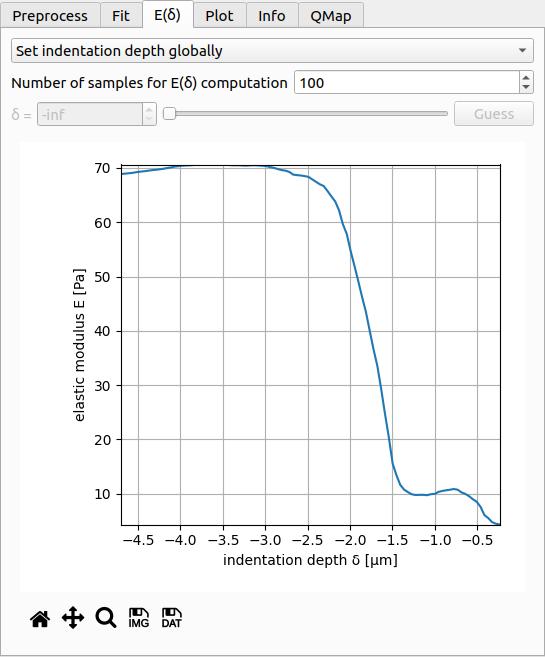
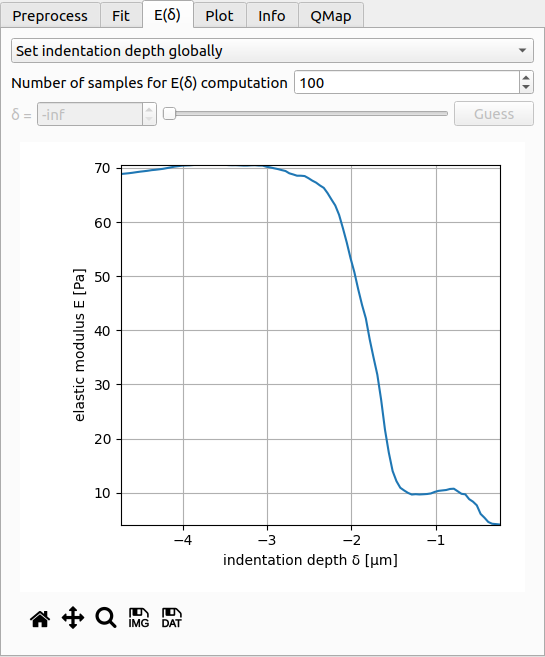
docs: update with latest screenshots

diff --git a/docs/scrots/make_scrots_ui_fd.py b/docs/scrots/make_scrots_ui_fd.py
@@ -54,24 +54,32 @@ war.tabs.setCurrentIndex(0)
 QApplication.processEvents()
 war.tabs.grab().save("_ui_fd_tab_preproc.png")
 
+# fit
 war.tabs.setCurrentIndex(1)
 QApplication.processEvents()
 war.tabs.grab().save("_ui_fd_tab_fit.png")
 
+# edelta
 war.tabs.setCurrentIndex(2)
 QApplication.processEvents()
 war.tabs.grab().save("_ui_fd_tab_edelta.png")
 
+# info
 war.tabs.setCurrentIndex(4)
 QApplication.processEvents()
 war.tabs.grab().save("_ui_fd_tab_info.png")
 
+# qmap
+# Select all curves (so QMap is fully visible)
+war.sp_rating_thresh.setValue(0.0)
+war.btn_rating_filter.clicked.emit()
 war.tabs.setCurrentIndex(5)
 war.sp_rating_thresh.setValue(0)
 war.btn_rating_filter.clicked.emit()
 QApplication.processEvents()
 war.tabs.grab().save("_ui_fd_tab_qmap.png")
 
+# plot
 war.tabs.setCurrentIndex(3)
 QApplication.processEvents()
 war.tabs.setFixedSize(war.tabs.sizeHint().width(), 300)

diff --git a/setup.py b/setup.py
@@ -24,8 +24,8 @@ setup(
     license="GPL v3",
     description=description,
     long_description=open('README.rst').read() if exists('README.rst') else '',
-    install_requires=["afmformats>=0.16.0",
-                      "nanite>=3.0.0",
+    install_requires=["afmformats>=0.16.4",
+                      "nanite>=3.1.1",
                       "matplotlib>=3",  # NavigationToolbar2QT mod
                       "pyqt5"],
     python_requires='>=3.6, <4',

diff --git a/docs/sec_interface.rst b/docs/sec_interface.rst
@@ -55,17 +55,14 @@ Tab: Preprocess
     :scale: 65%
 
 Before starting to fit FD data, it is important to perform the correct
-steps. Usually, this includes computing the tip position and correcting
-for a force and tip position offset. The offset corrections are only
-necessary for visualization purposes - Force offset and contact point
-are usually free fitting parameters.
+preprocessing steps. Usually, this includes computing the tip position
+and correcting for a force and tip position offset.
 
-To define a new preprocessing pipeline, click on *Clear Preprocessing*
-at the top of the panel. You may either load predefined presets or
-compile your own preprocessing pipeline via drag&drop from the *Available*
-to the *Applied* list controls. When selecting a preprocessing item in
-on of the list controls, its description is shown in the text control
-at the center.
+The preprocessing pipeline is defined via the checkable options in this
+tab. If you hover over the options, a tool tip is displayed with an
+explanation. If your analysis pipeline strongly depends on a good
+estimate of the contact point, then you have multiple options which are
+described in detail in the :ref:`nanite docs<nanite:sec_fitting_preproc>`.
 
 
 .. _sec_ui_fd_tab_fit:
@@ -83,7 +80,7 @@ and the fitting range.
 
 Range:
     The fitting range can be set to absolute (relative to
-    the X axis after preprocessing or relative to the contact point. In the
+    the X axis after preprocessing) or relative to the contact point. In the
     latter case, the fit is repeated four times, updating the new contact
     point at each iteration.
     You have three option for setting the indentation depth (left part

diff --git a/docs/sec_getting_started.rst b/docs/sec_getting_started.rst
@@ -15,7 +15,7 @@ PyJibe can be installed via multiple channels:
    (``PyJibeApp_X.Y.Z.dmg``) from the official
    `release page <https://github.com/AFM-analysis/PyJibe/releases/latest>`__. 
 
-3. **Python 3.6 with pip:** PyJibe can easily be installed with
+3. **Python 3.6 or later with pip:** PyJibe can easily be installed with
    `pip <https://pip.pypa.io/en/stable/quickstart/>`__:
 
    .. code:: bash
